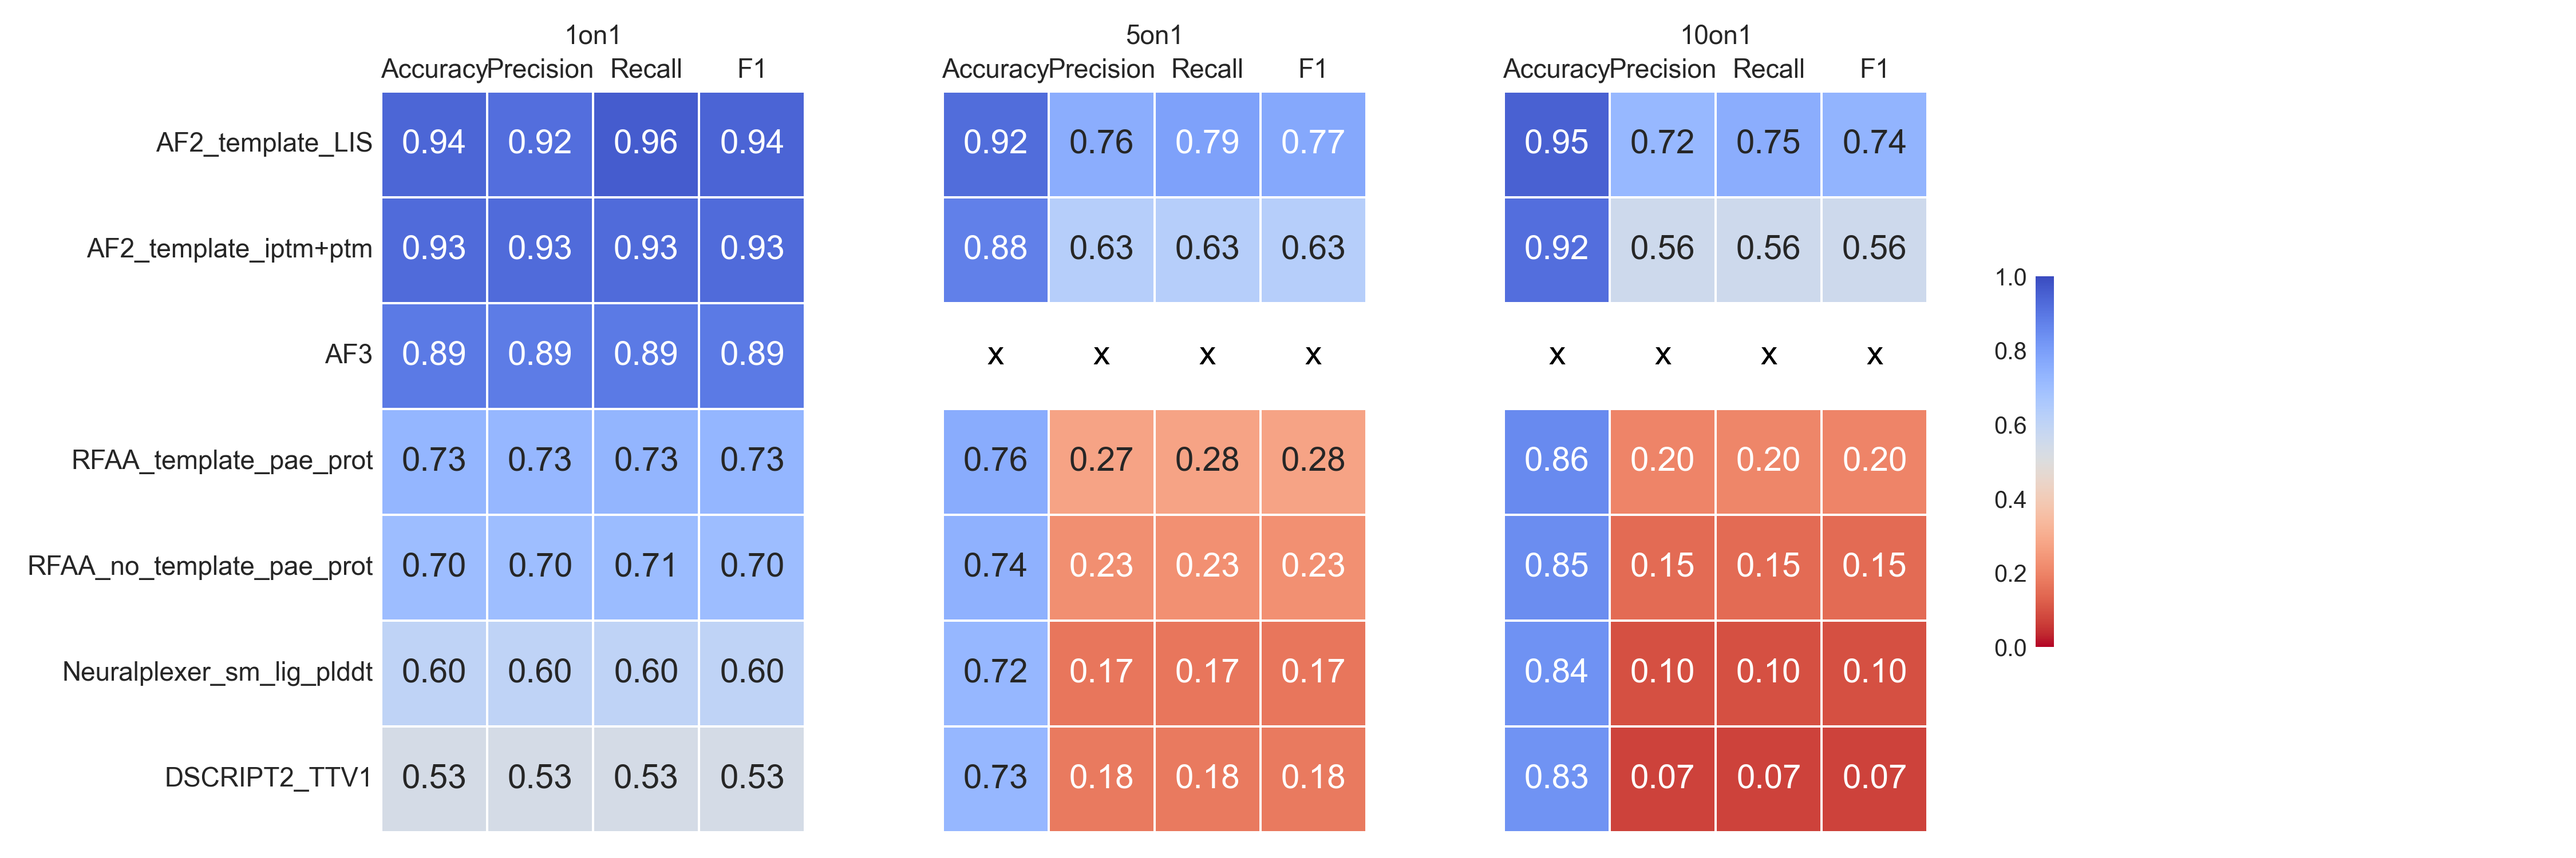
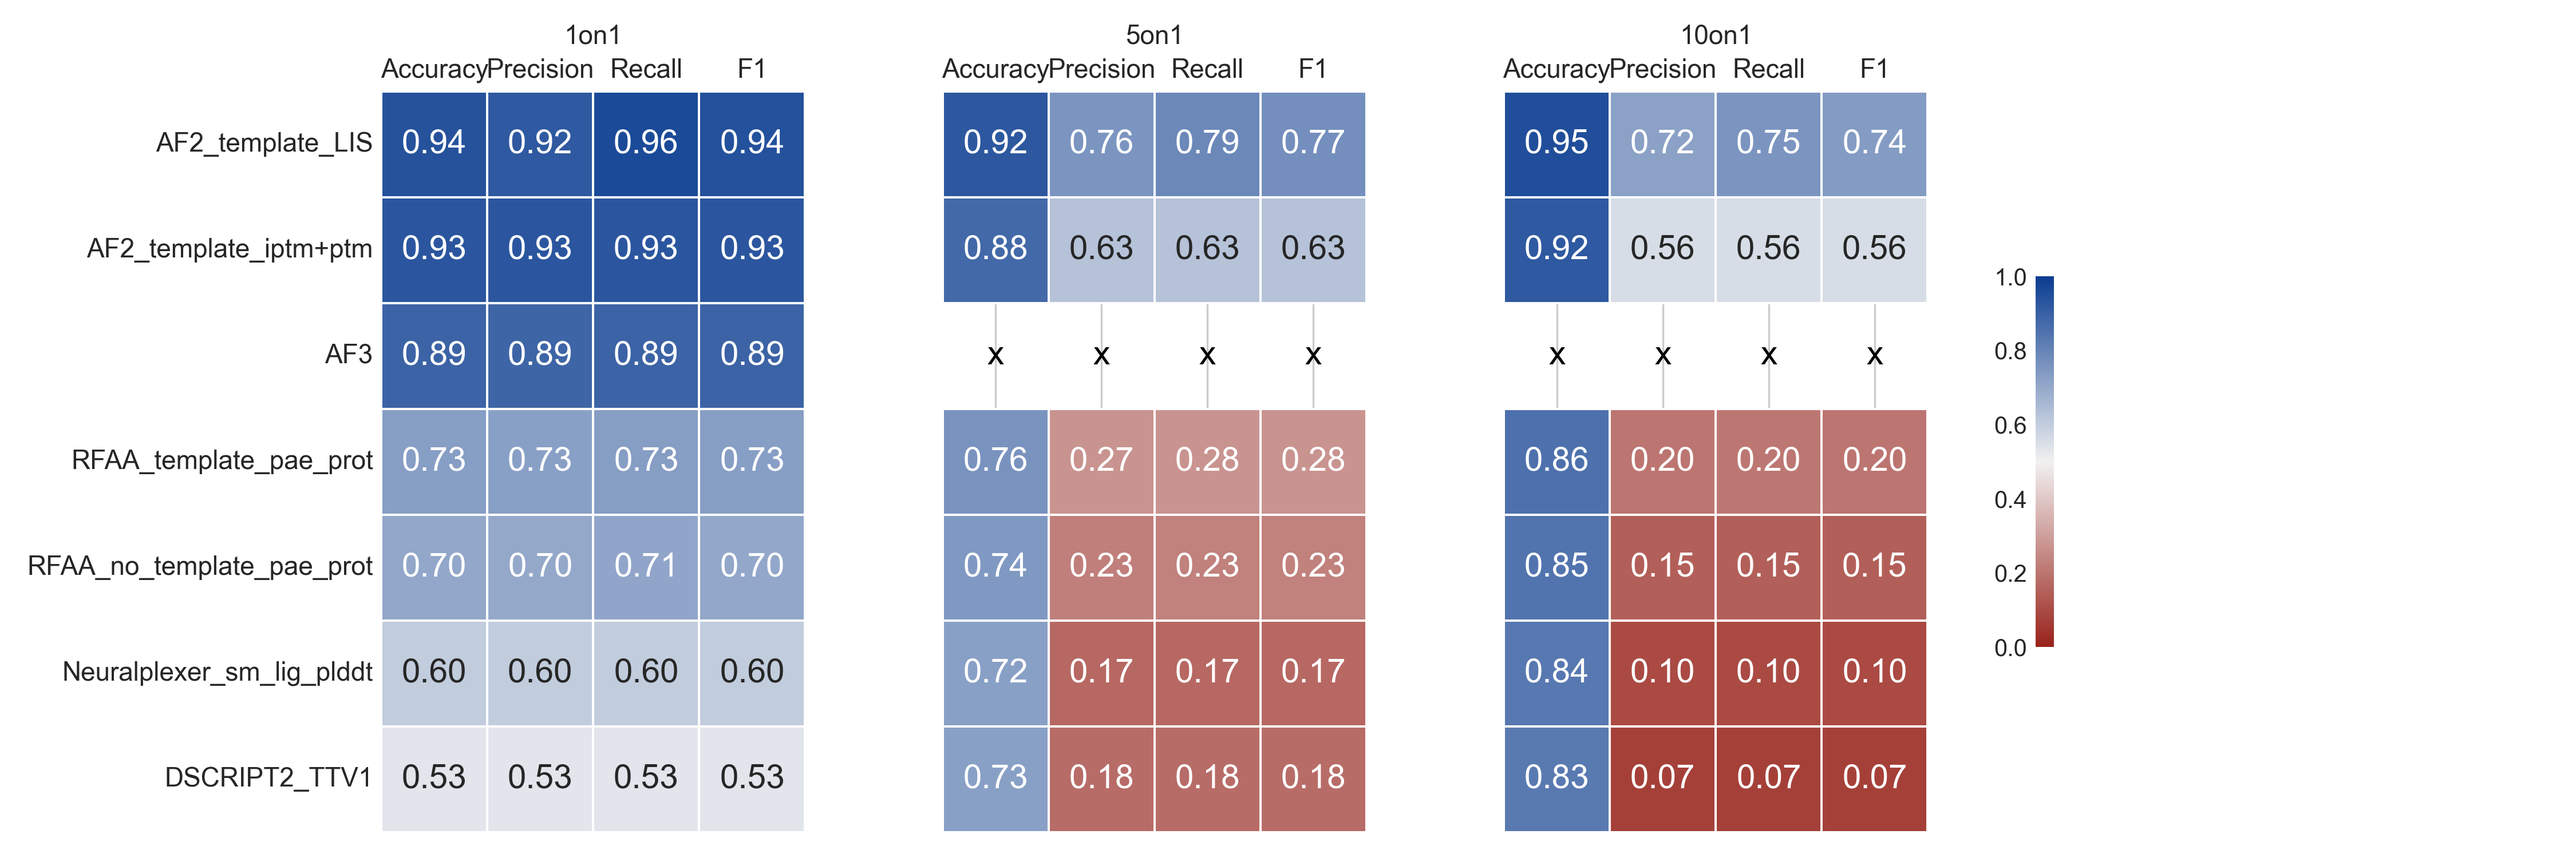
update colors and roc

diff --git a/classifier_benchmark/plot_roc.py b/classifier_benchmark/plot_roc.py
@@ -8,6 +8,10 @@ import logging
 from sklearn.metrics import roc_curve, auc
 from parse_predictions import get_models, get_ground_truth_df, get_ground_truth_values
 
+# add "."
+import sys
+sys.path.append(".")
+from colors import COLOR
 
 def create_roc(invalid_identifiers, plot_p, log_p):
     """
@@ -55,15 +59,22 @@ def create_roc(invalid_identifiers, plot_p, log_p):
         # calculate ROC curve
         fpr, tpr, _ = roc_curve(y_true, y_pred)
         roc_auc = auc(fpr, tpr)
-        label = f"{model_name}\nAUC = {roc_auc:.2f}"
+        label = f"{model_name}, AUC = {roc_auc:.2f}"
         missing_values = len(ground_truth) - len(y_pred)
         if missing_values > 0:
-            label += f"\n({missing_values} missing values)"
+            label += f" ({missing_values} missing)"
+        color = COLOR.get(model_name, "black")
 
-        ax.plot(
-            fpr,
-            tpr,
+        sns.lineplot(
+            x=fpr,
+            y=tpr,
             label=label,
+            color=color,
+            ax=ax,
+            marker="o",
+            markersize=4,
+            markers=True,
+            errorbar=None,
         )
 
     # make plot informative
@@ -77,6 +88,16 @@ def create_roc(invalid_identifiers, plot_p, log_p):
     plt.title(
         f"Classifier performance\n n={len(ground_truth)}, ({number_positives} +, {number_negatives} -)"
     )
+
+    # sort legend on AUC
+    handles, labels = ax.get_legend_handles_labels()
+    get_auc = lambda x: float(x.split("AUC = ")[1].split(" ")[0])
+    labels, handles = zip(*sorted(zip(labels, handles), 
+                                  key=lambda x: get_auc(x[0]),
+                                  reverse=True))
+    ax.legend(handles, labels, loc="lower right")
+
+
     # adjust legend font dict
     for text in ax.get_legend().get_texts():
         text.set_fontsize("small")

diff --git a/classifier_benchmark/parse_predictions.py b/classifier_benchmark/parse_predictions.py
@@ -3,6 +3,31 @@ import numpy as np
 import pathlib
 
 
+def directory_to_model_name(directory_name : str) -> str:
+    """
+    # match color dictionary in colors.py
+    {'Receptor': '#0b3d91', 'Ligand': '#f9aa43', 'Agonist': '#f9aa43', 'Dissimilar decoy': '#99231b', 
+    'Similar decoy': '#c62d1f', 'NeuralPLexer': '#5b616b', 'ESMFold': '#478347', 'RF-AA': '#A676D6',
+      'RF-AA (no templates)': '#7352BF', 'AF2': '#115185', 'AF2 (no templates)': '#008FD7', 
+      'AF3': '#061f4a', 'Peptriever': '#aeb0b5', 'D-SCRIPT2': '#aeb0b5', 
+      'Class A (Rhodopsin)': '#115185', 'Class B1 (Secretin)': '#478347', 
+      'Class F (Frizzled)': '#A676D6', 'Other GPCRs': '#aeb0b5'}
+    """
+    dir_to_name = {
+        "AF2_template_iptm+ptm" : "AF2",
+        "AF2_template_LIS" : "AF2-LIS",
+        "AF3" : "AF3",
+        "DSCRIPT2_TTV1" : "D-SCRIPT2",
+        "Neuralplexer_sm_lig_plddt" : "NeuralPLexer",
+        "RFAA_no_template_pae_prot" : "RF-AA (no templates)",
+        "RFAA_template_pae_prot" : "RF-AA",
+    }
+    if directory_name in dir_to_name:
+        return dir_to_name[directory_name]
+    else:
+        return directory_name
+
+
 def get_models(model_dir, identifier_column="identifier"):
     """Get the models in the model directory.
 
@@ -26,6 +51,7 @@ def get_models(model_dir, identifier_column="identifier"):
                 identifier_column
             ].is_unique, "Identifier column is not unique."
             # append list and df
+            model_name = directory_to_model_name(model_name)
             models.append((model_name, prediction_csv))
 
     return models

diff --git a/colors.py b/colors.py
@@ -9,11 +9,11 @@ import seaborn as sns
 # sns uses rgb values between 0 and 1
 COLOR = {
     # compounds
-    "receptor": "#0b3d91",
-    "ligand": "#f9aa43",
-    "agonist": "#f9aa43",
-    "dissimilar_decoy": "#99231b",
-    "similar_decoy": "#c62d1f",
+    "Receptor": "#0b3d91",
+    "Ligand": "#f9aa43",
+    "Agonist": "#f9aa43",
+    "Dissimilar decoy": "#99231b",
+    "Similar decoy": "#c62d1f",
     # models (3D)
     "NeuralPLexer": "#5b616b",
     "ESMFold": "#478347",
@@ -22,8 +22,11 @@ COLOR = {
     "AF2": "#115185",
     "AF2 (no templates)": "#008FD7",
     "AF3": "#061f4a",
-    # models (2D)
-    "": "#aeb0b5",
+    # models (no structure)
+    "Peptriever" : "#aeb0b5",
+    "D-SCRIPT2" : "#aeb0b5",
+    "AF2-LIS" : "#02bfe7",
+    
     # classes
     "Class A (Rhodopsin)": "#115185",
     "Class B1 (Secretin)": "#478347",

diff --git a/classifier_benchmark/plot_heatmap_combined.py b/classifier_benchmark/plot_heatmap_combined.py
@@ -18,6 +18,10 @@ import matplotlib.pyplot as plt
 import numpy as np
 import itertools
 
+# colors.py is in working directory
+sys.path.append(".")
+from colors import CMAP_GOOD_BAD
+
 from sklearn.metrics import (
     confusion_matrix,
     precision_score,
@@ -303,7 +307,7 @@ def plot_combined():
 
     # create a figure with 3 subplots
     fig, axs = plt.subplots(1, 4, figsize=(15, 5))
-    cmap = "coolwarm_r"
+    cmap = CMAP_GOOD_BAD
     vmin = 0
     vmax = 1.0
     fmt = ".2f"
